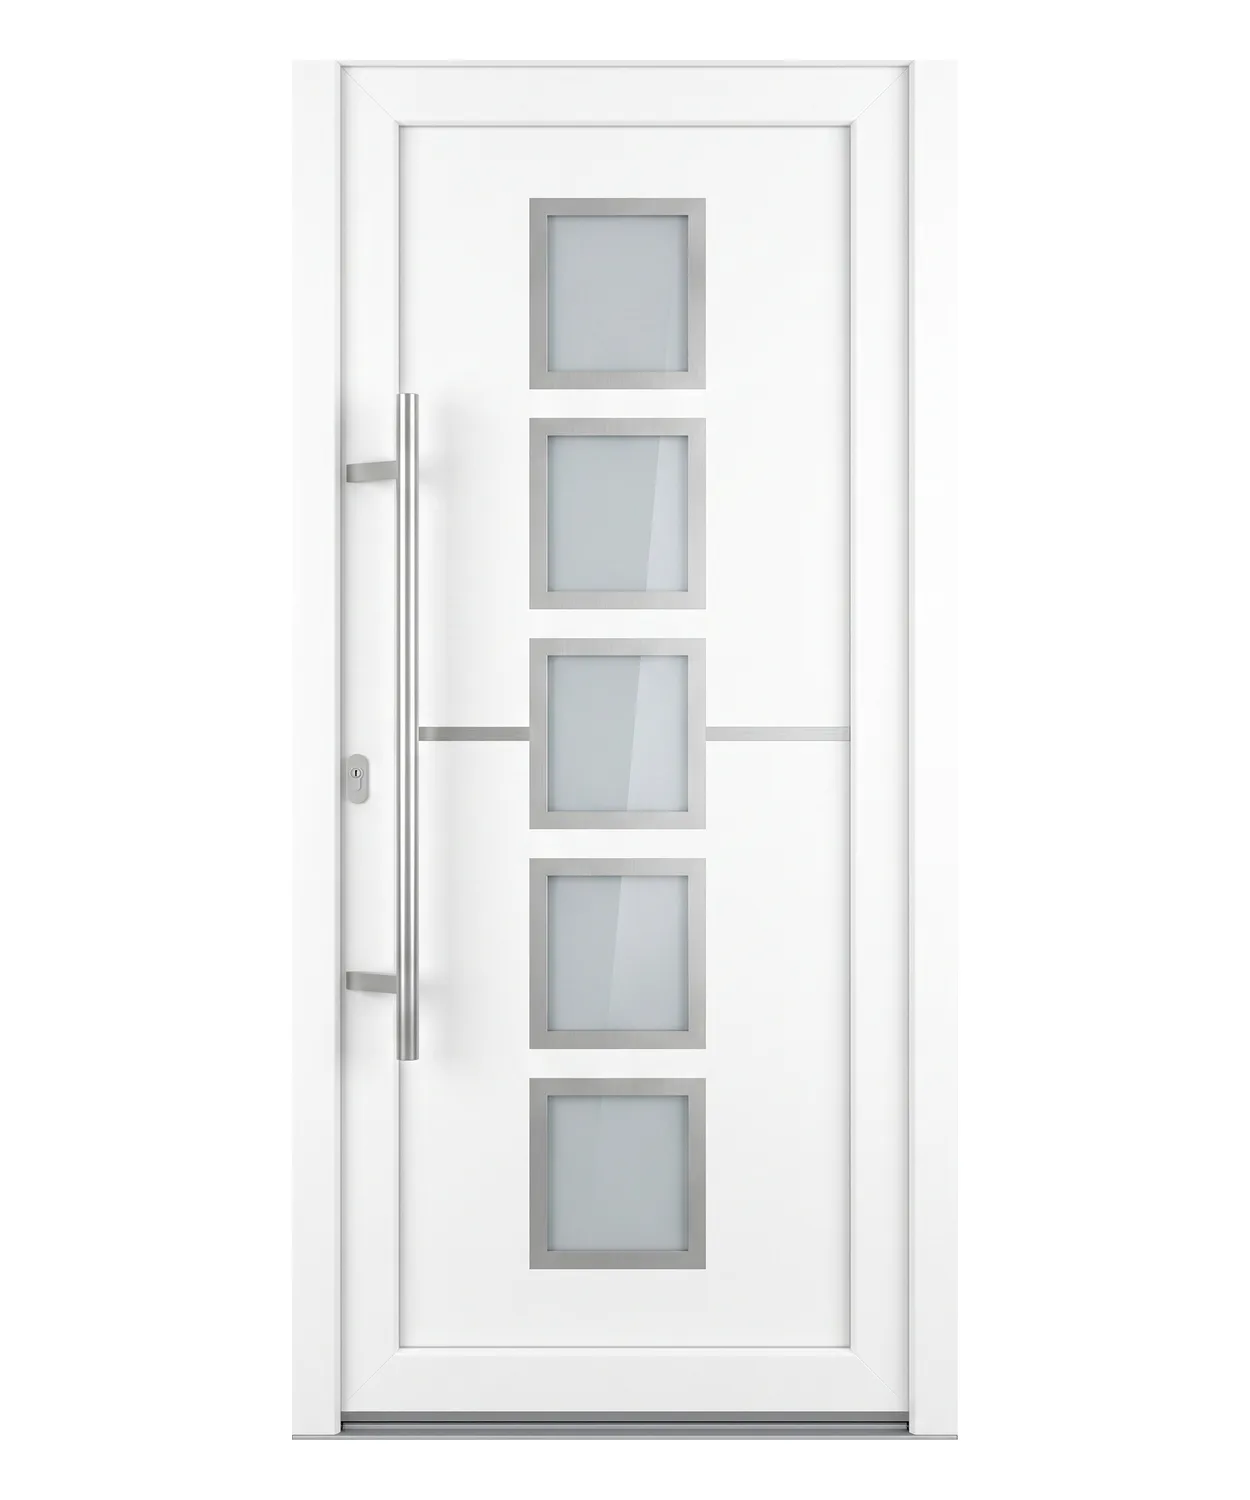
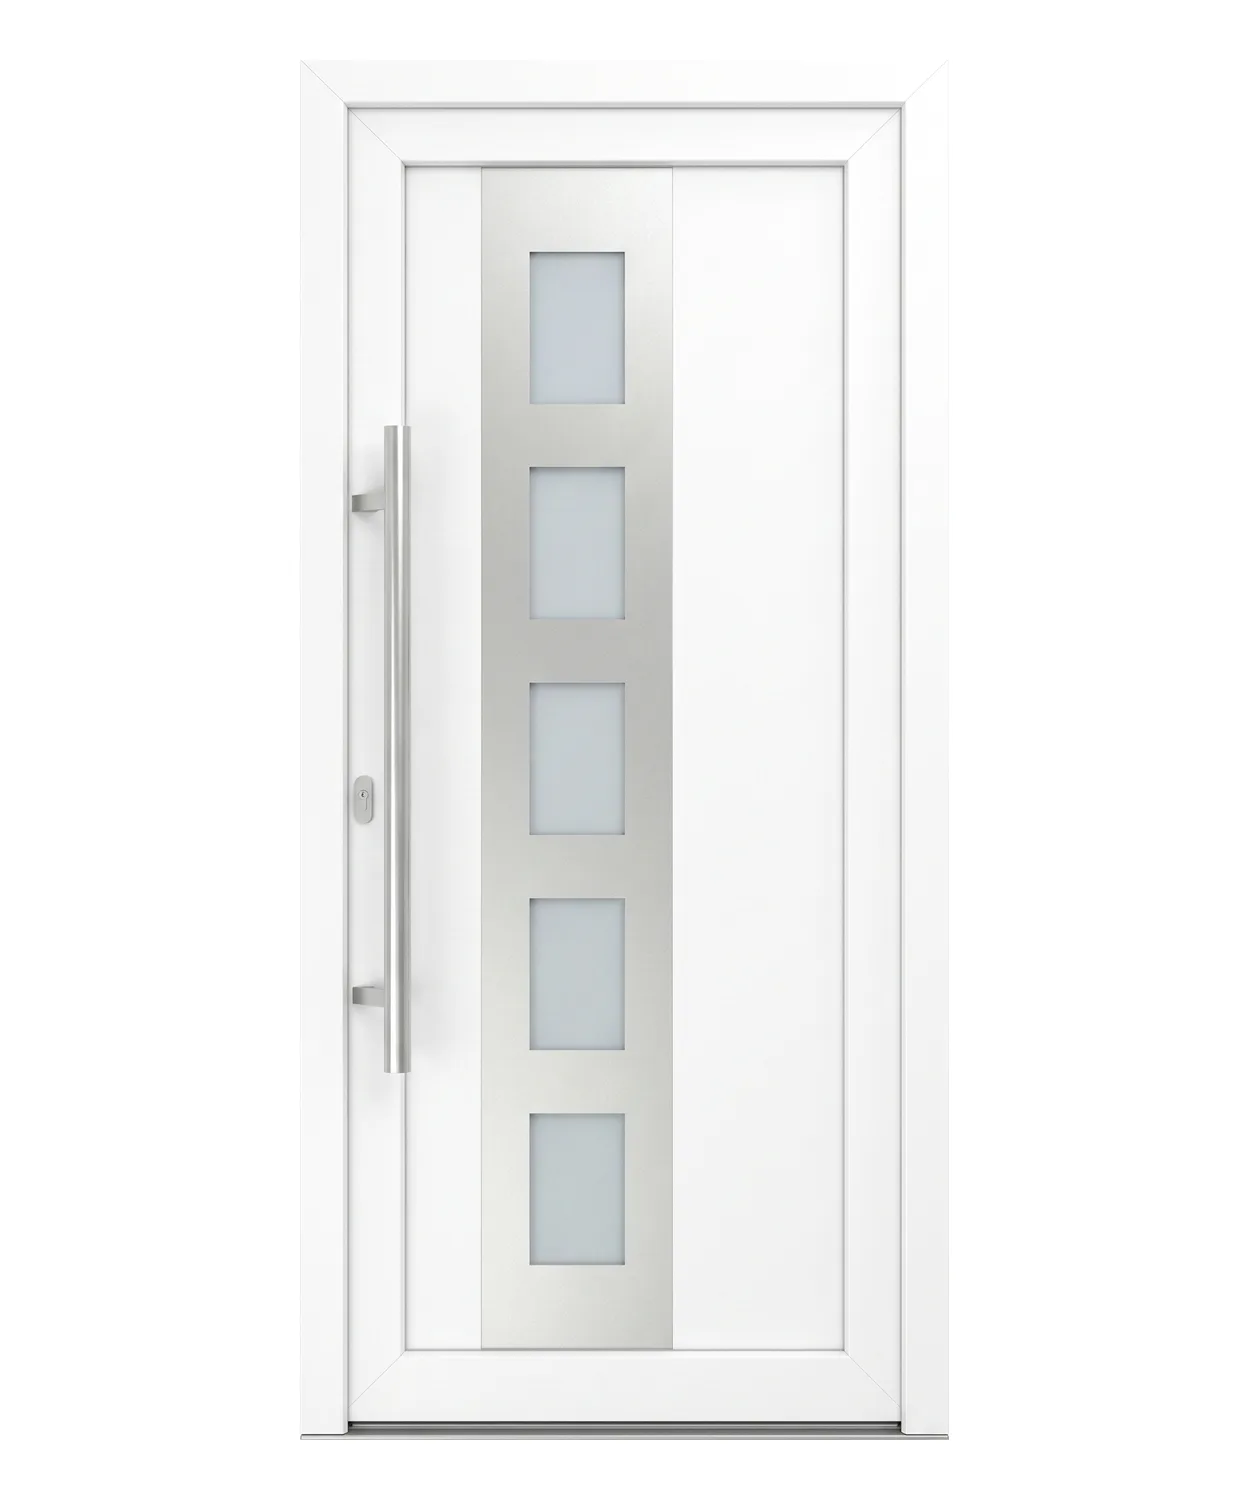
Haustuer-Konfigurator: Nebraska neu gerendert — fehlerhaften horizontalen Metallstrich entfernt (nur vertikales Glasband mit 5 Quadraten wie im Original); Cache gebumpt

Changed region(s): [[0.2496, 0.0307, 0.7488, 0.9813]]

diff --git a/konfigurator.html b/konfigurator.html
@@ -7627,7 +7627,7 @@ function wizRenderExtras(){
 }
 function wizRebuildSteps(){ const ck=WIZ_STEPS[wizIdx]&&WIZ_STEPS[wizIdx].key; WIZ_STEPS=buildWizSteps(S.prod||'kunststoff'); let ni=WIZ_STEPS.findIndex(function(s){return s.key===ck;}); if(ni<0)ni=Math.min(wizIdx,WIZ_STEPS.length-1); wizIdx=Math.max(0,ni); }
 // Türmodelle (Studio-Bilder, vorhanden) — finale Auswahl/Bilder folgen in Phase 2
-const WIZ_DOORS=['vollglas-inox','florida-lr-inox','montana-2-lr-inox','montana-3-lr-inox','ohio-inox','colorado-inox','alaska-2-inox','alaska-1-inox','montana-1-inox','nebraska-lcr-inox','pennsylvania-1-inox','pennsylvania-2-lr-inox','pennsylvania-3-lr-inox','texas-c-inox','texas-lr-inox'].map(function(k){return {key:k,name:k.replace(/-inox$/,'').replace(/-lr$|-lcr$|-c$/,'').replace(/-/g,' ').replace(/\b\w/g,function(c){return c.toUpperCase();}).trim(),img:'img/drutex-tueren/studio/'+k+'.webp?v=20260625p'};});
+const WIZ_DOORS=['vollglas-inox','florida-lr-inox','montana-2-lr-inox','montana-3-lr-inox','ohio-inox','colorado-inox','alaska-2-inox','alaska-1-inox','montana-1-inox','nebraska-lcr-inox','pennsylvania-1-inox','pennsylvania-2-lr-inox','pennsylvania-3-lr-inox','texas-c-inox','texas-lr-inox'].map(function(k){return {key:k,name:k.replace(/-inox$/,'').replace(/-lr$|-lcr$|-c$/,'').replace(/-/g,' ').replace(/\b\w/g,function(c){return c.toUpperCase();}).trim(),img:'img/drutex-tueren/studio/'+k+'.webp?v=20260626n'};});
 function wizRenderPsk(){ return '<div class="wiz-cards">'+Object.keys(P.pskKammer).map(function(k){ var o=P.pskKammer[k]; return '<div class="wiz-card'+(k===S.pskKammer?' sel':'')+'" onclick="wizSetPsk(\''+k+'\')"><img src="img/karten/profil/'+k+'.png?v=20260609c" alt="'+o.name+'" loading="lazy"><div class="wiz-cn">'+o.name+'</div><div class="wiz-csub">'+(o.sub||'')+'</div></div>'; }).join('')+'</div>'; }
 function wizSetPsk(v){ wizSet('pskKammer',v); }
 function wizRenderTuermodell(){ return '<div class="wiz-cards">'+WIZ_DOORS.map(function(d){return '<div class="wiz-card'+(d.key===S.tuerModell?' sel':'')+'" onclick="wizSet(\'tuerModell\',\''+d.key+'\')"><div class="wiz-gbox"><img src="'+d.img+'" alt="'+d.name+'" loading="lazy"></div><div class="wiz-cn">'+d.name+'</div></div>';}).join('')+'</div>'; }